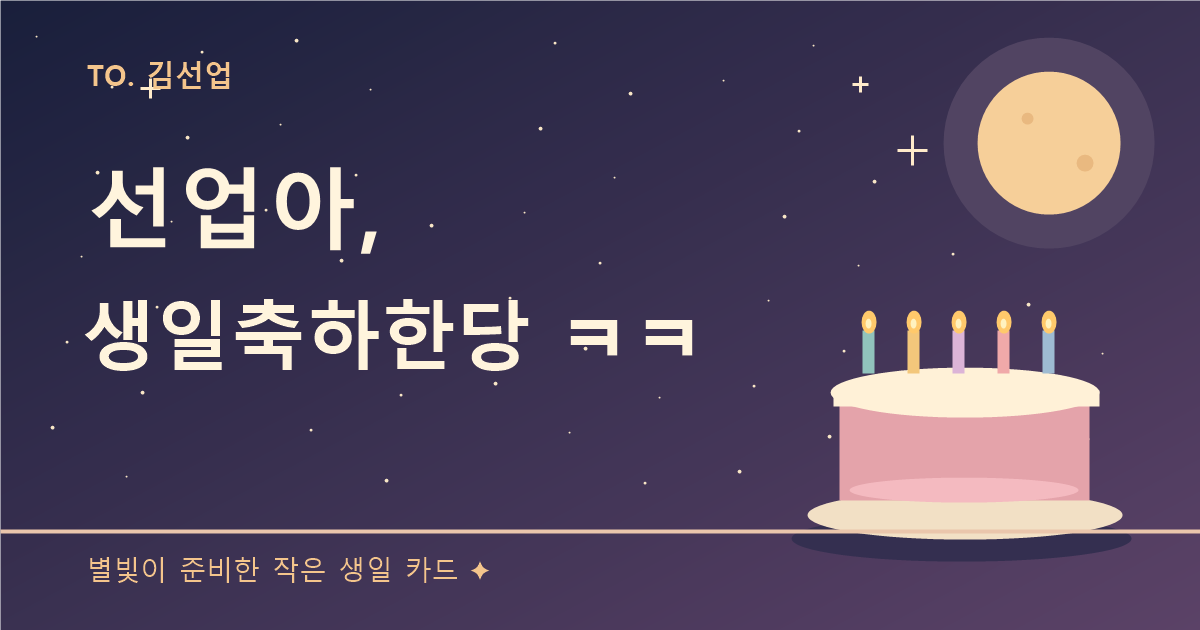
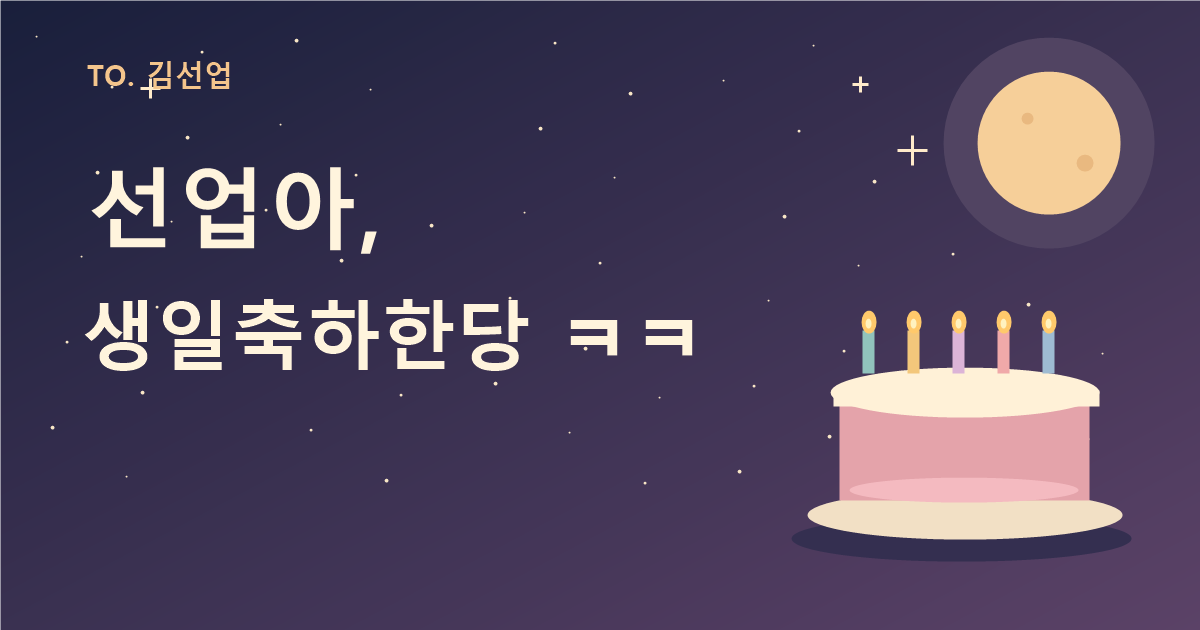
Simplify card and add Pikachu and Jolteon

Changed region(s): [[0.0, 0.8143, 1.0, 0.9349]]

diff --git a/index.html b/index.html
@@ -25,11 +25,8 @@
     * { box-sizing: border-box; }
     body { margin: 0; min-height: 100vh; background: #111429; color: #faf2e4; }
     main { width: min(100% - 24px, 650px); margin: 0 auto; padding: 26px 0 42px; }
-    .header { display: flex; justify-content: space-between; align-items: end; gap: 14px; margin-bottom: 17px; }
-    .eyebrow { color: #eac185; font-size: 12px; font-weight: 700; letter-spacing: .22em; text-transform: uppercase; }
-    h1 { margin: 8px 0 4px; font-size: clamp(26px, 4vw, 38px); letter-spacing: -.055em; }
+    .sr-only { position: absolute; width: 1px; height: 1px; padding: 0; margin: -1px; overflow: hidden; clip: rect(0, 0, 0, 0); white-space: nowrap; border: 0; }
     p { margin: 0; color: #c9c8d7; line-height: 1.6; }
-    .duration { flex: none; font-size: 13px; color: #eac185; border: 1px solid #686077; border-radius: 99px; padding: 8px 13px; }
     .layout { display: block; }
     .stage { overflow: hidden; border-radius: 18px; background: #f4e3ca; box-shadow: 0 24px 80px #0008; aspect-ratio: 3/4; border: 1px solid #e7d0af; }
     canvas { display: block; width: 100%; height: 100%; }
@@ -43,26 +40,22 @@
     .secondary:hover { background: #504d72; }
     .row { display: flex; gap: 10px; }
     .row button { flex: 1; }
-    .status { font-size: 12px; min-height: 22px; margin-top: 12px; }
+    .status { font-size: 12px; margin-top: 12px; }
+    .status:empty { display: none; }
     .progress { margin-top: 18px; height: 5px; border-radius: 99px; background: #514d69; overflow: hidden; }
     .progress span { display: block; height: 100%; width: 0%; background: #f5cc91; transition: width .08s linear; }
-    .footnote { font-size: 12px; margin-top: 13px; }
-    @media (max-width: 560px) { .header { display: block; } .duration { display: inline-block; margin-top: 12px; } .row { flex-wrap: wrap; } .row button { min-width: 45%; } }
+    @media (max-width: 560px) { .row { flex-wrap: wrap; } .row button { min-width: 45%; } }
   </style>
 </head>
 <body>
   <main>
-    <div class="header">
-      <div><div class="eyebrow">A little wish for Seonup</div><h1>김선업님께 보내는 생일 카드</h1><p>열어보면 별빛과 촛불이 차례로 움직입니다.</p></div>
-      <div class="duration">12초 · 무음 · 반복 재생</div>
-    </div>
+    <h1 class="sr-only">김선업에게 보내는 생일 카드</h1>
     <div class="layout">
       <div class="stage"><canvas id="scene" width="900" height="1200" aria-label="김선업님께 전하는 별빛과 케이크 생일 축하 카드 애니메이션" role="img"></canvas></div>
       <section class="panel" aria-label="카드 재생 및 저장">
         <div class="row"><button id="replay" class="primary" type="button">↻ 다시 보기</button><button id="pause" class="secondary" type="button">일시정지</button><button id="download" class="secondary" type="button">영상 저장</button></div>
         <div class="progress" aria-hidden="true"><span id="progress"></span></div>
-        <p id="status" class="status" role="status" aria-live="polite">김선업님을 위한 카드가 재생 중입니다.</p>
-        <p class="footnote">영상 저장은 최신 Chrome·Edge에서 WebM 파일로 지원합니다.</p>
+        <p id="status" class="status" role="status" aria-live="polite"></p>
       </section>
     </div>
   </main>
@@ -92,6 +85,7 @@
     function circle(x, y, r, fill) { ctx.beginPath(); ctx.arc(x, y, Math.max(0, r), 0, TAU); ctx.fillStyle = fill; ctx.fill(); }
     function ellipse(x, y, rx, ry, fill) { ctx.beginPath(); ctx.ellipse(x, y, rx, ry, 0, 0, TAU); ctx.fillStyle = fill; ctx.fill(); }
     function line(x1, y1, x2, y2, color, width = 2) { ctx.beginPath(); ctx.moveTo(x1, y1); ctx.lineTo(x2, y2); ctx.strokeStyle = color; ctx.lineWidth = width; ctx.lineCap = 'round'; ctx.stroke(); }
+    function polygon(points, fill, stroke, width = 2) { ctx.beginPath(); ctx.moveTo(points[0][0], points[0][1]); for (let i = 1; i < points.length; i++) ctx.lineTo(points[i][0], points[i][1]); ctx.closePath(); ctx.fillStyle = fill; ctx.fill(); if (stroke) { ctx.strokeStyle = stroke; ctx.lineWidth = width; ctx.lineJoin = 'round'; ctx.stroke(); } }
     function text(str, x, y, size, color, align = 'center', weight = 700, alpha = 1, maxWidth) {
       ctx.save(); ctx.globalAlpha = alpha; ctx.fillStyle = color; ctx.font = `${weight} ${size}px "Malgun Gothic", "Apple SD Gothic Neo", sans-serif`;
       ctx.textAlign = align; ctx.textBaseline = 'middle';
@@ -99,7 +93,7 @@
       ctx.restore();
     }
     const stars = Array.from({ length: 88 }, (_, i) => ({ x: 30 + hash(i + 1) * 840, y: 24 + hash(i + 101) * 480, r: 1 + hash(i + 204) * 2.1, phase: hash(i + 305) * TAU }));
-    const confetti = Array.from({ length: 105 }, (_, i) => ({ x: hash(i + 401) * W, delay: hash(i + 515) * 2.4, speed: 80 + hash(i + 607) * 110, drift: (hash(i + 711) - .5) * 85, rot: hash(i + 812) * TAU, size: 4 + hash(i + 905) * 7, color: ['#f5c77d', '#f4a4aa', '#87c8c4', '#d8c2e8'][i % 4] }));
+    const confetti = Array.from({ length: 48 }, (_, i) => ({ x: hash(i + 401) * W, delay: hash(i + 515) * 2.4, speed: 80 + hash(i + 607) * 110, drift: (hash(i + 711) - .5) * 85, rot: hash(i + 812) * TAU, size: 4 + hash(i + 905) * 7, color: ['#f5c77d', '#f4a4aa', '#87c8c4', '#d8c2e8'][i % 4] }));
     function grain() {
       const g = document.createElement('canvas'); g.width = g.height = 220;
       const gc = g.getContext('2d'); const img = gc.createImageData(220, 220);
@@ -123,12 +117,10 @@
       circle(x, y, Math.max(1, r * .16), '#fff9df'); ctx.restore();
     }
     function moon(t) {
-      const rise = smooth(.2, 1.7, t); const y = 210 + (1 - rise) * 160;
-      circle(450, y, 105, 'rgba(255,211,150,.07)'); circle(450, y, 73, 'rgba(255,218,166,.13)');
-      circle(450, y, 55, '#f8d39d');
-      circle(432, y - 15, 6, '#e9b87f'); circle(476, y + 18, 9, '#e9b87f'); circle(454, y + 36, 4, '#e9b87f');
-      circle(434, y + 5, 2.5, '#7c6270'); circle(464, y + 5, 2.5, '#7c6270');
-      ctx.beginPath(); ctx.arc(449, y + 13, 7, .1, Math.PI - .1); ctx.strokeStyle = '#7c6270'; ctx.lineWidth = 2.5; ctx.stroke();
+      const rise = smooth(.2, 1.7, t); const y = 178 + (1 - rise) * 120;
+      circle(750, y, 92, 'rgba(255,211,150,.07)'); circle(750, y, 67, 'rgba(255,218,166,.13)');
+      circle(750, y, 49, '#f8d39d');
+      circle(734, y - 14, 5, '#e9b87f'); circle(774, y + 15, 8, '#e9b87f'); circle(750, y + 30, 4, '#e9b87f');
     }
     function comet(t) {
       const p = smooth(.9, 3.5, t); if (p <= 0 || p >= 1) return;
@@ -137,28 +129,51 @@
       for (let i = 9; i >= 0; i--) { const q = clamp(p - i * .012); const tx = -75 + 1050 * q, ty = 460 - 220 * Math.sin(Math.PI * q) - 60 * q; circle(tx, ty, 3 + (9 - i) * .8, `rgba(251,204,150,${.045 + (9 - i) * .014})`); }
       const glow = ctx.createRadialGradient(x, y, 2, x, y, 60); glow.addColorStop(0, 'rgba(255,239,174,.85)'); glow.addColorStop(1, 'rgba(255,239,174,0)'); circle(x, y, 60, glow); sparkle(x, y, 19); ctx.restore();
     }
-    function garland(t) {
-      const alpha = smooth(2.5, 3.4, t); if (!alpha) return;
-      ctx.save(); ctx.globalAlpha = alpha;
-      ctx.beginPath(); ctx.moveTo(0, 82); ctx.bezierCurveTo(270, 168, 630, 168, 900, 82); ctx.strokeStyle = '#e9c6aa'; ctx.lineWidth = 3; ctx.stroke();
-      for (let i = 0; i < 13; i++) { const x = 34 + i * 69; const y = 91 + 42 * Math.sin(Math.PI * x / 900); ctx.fillStyle = ['#ecc88c', '#dca1ad', '#84bdbc', '#b6a6cd'][i % 4]; ctx.beginPath(); ctx.moveTo(x - 23, y); ctx.lineTo(x + 23, y); ctx.lineTo(x, y + 49); ctx.closePath(); ctx.fill(); }
+    function pikachu(t) {
+      const p = smooth(2.2, 3.4, t); if (!p) return;
+      ctx.save(); ctx.globalAlpha = p; ctx.translate(142 - (1 - easeOut(p)) * 245, 667 + Math.sin(t * 4) * 4); ctx.scale(.88, .88);
+      const yellow = '#f8ce48', outline = '#765743';
+      polygon([[47, 18], [106, -31], [76, -31], [120, -93], [84, -72], [104, -117], [34, -55]], yellow, outline, 4);
+      ellipse(0, 31, 74, 83, yellow); ellipse(-43, 99, 30, 14, yellow); ellipse(45, 99, 30, 14, yellow);
+      ctx.save(); ctx.translate(-61, -2); ctx.rotate(-.15 - .24 * Math.sin(t * 5)); ellipse(0, -19, 22, 47, yellow); ctx.restore();
+      ctx.save(); ctx.translate(62, -8); ctx.rotate(.28 + .3 * Math.sin(t * 5)); ellipse(0, -18, 22, 47, yellow); ctx.restore();
+      polygon([[-65, -128], [-81, -259], [-35, -190], [-21, -139]], yellow, outline, 4);
+      polygon([[37, -140], [86, -246], [80, -120], [62, -112]], yellow, outline, 4);
+      polygon([[-79, -251], [-81, -259], [-62, -230], [-66, -214], [-77, -235]], '#3b3342');
+      polygon([[75, -223], [86, -246], [84, -202], [76, -180]], '#3b3342');
+      ellipse(0, -101, 75, 66, yellow);
+      ellipse(-56, -75, 18, 16, '#e76b68'); ellipse(56, -75, 18, 16, '#e76b68');
+      ellipse(-29, -112, 8, 11, '#282936'); ellipse(29, -112, 8, 11, '#282936');
+      circle(-31, -116, 2.5, '#fff8e8'); circle(27, -116, 2.5, '#fff8e8');
+      circle(0, -91, 5, '#3a3038');
+      ctx.beginPath(); ctx.moveTo(-15, -78); ctx.quadraticCurveTo(0, -63, 15, -78); ctx.strokeStyle = '#6a4645'; ctx.lineWidth = 3; ctx.stroke();
       ctx.restore();
     }
-    function gift(x, y, scale, color) {
-      ctx.save(); ctx.translate(x, y); ctx.scale(scale, scale);
-      ctx.fillStyle = '#25243855'; ctx.fillRect(-76, 68, 152, 20);
-      ctx.fillStyle = color; roundedRect(-63, -48, 126, 115, 8); ctx.fill();
-      ctx.fillStyle = '#ffe3ba'; ctx.fillRect(-12, -48, 24, 115); ctx.fillRect(-69, -18, 138, 22);
-      ctx.beginPath(); ctx.ellipse(-17, -57, 24, 14, -.45, 0, TAU); ctx.ellipse(17, -57, 24, 14, .45, 0, TAU); ctx.fill();
-      circle(0, -54, 8, '#ffe3ba'); ctx.restore();
+    function jolteon(t) {
+      const p = smooth(2.3, 3.5, t); if (!p) return;
+      ctx.save(); ctx.globalAlpha = p; ctx.translate(755 + (1 - easeOut(p)) * 245, 671 + Math.sin(t * 4.5 + 1) * 4); ctx.scale(.88, .88);
+      const yellow = '#f6c744', dark = '#514255';
+      polygon([[56, 23], [100, -11], [84, 19], [139, -12], [104, 36], [138, 43], [76, 59]], yellow, dark, 3);
+      polygon([[-58, 80], [-83, 31], [-73, -36], [-105, -53], [-67, -60], [-86, -93], [-38, -85], [0, -92], [48, -73], [83, -27], [76, 68], [55, 91]], yellow, dark, 3);
+      ellipse(-42, 93, 27, 14, yellow); ellipse(52, 92, 27, 14, yellow);
+      polygon([[-58, -147], [-76, -260], [-18, -180], [-20, -129]], yellow, dark, 3);
+      polygon([[27, -139], [79, -249], [70, -125], [45, -115]], yellow, dark, 3);
+      polygon([[-71, -234], [-65, -194], [-34, -167], [-52, -205]], '#484053');
+      polygon([[66, -221], [42, -172], [57, -159], [72, -197]], '#484053');
+      polygon([[-72, -127], [-94, -107], [-73, -89], [-91, -67], [-59, -62], [-50, -43], [-15, -51], [0, -45], [43, -51], [67, -67], [94, -81], [73, -96], [85, -117], [52, -129], [36, -156], [0, -139], [-33, -159]], yellow, dark, 3);
+      polygon([[-62, -46], [-93, -34], [-67, -16], [-92, 5], [-53, 1], [-61, 30], [-21, 12], [0, 44], [21, 12], [62, 27], [56, 1], [92, 5], [63, -17], [91, -36], [59, -49], [30, -39], [0, -55], [-29, -39]], '#fff3dc', '#b9a88f', 3);
+      ellipse(-30, -106, 7, 10, '#2c2938'); ellipse(31, -106, 7, 10, '#2c2938');
+      circle(-32, -110, 2.3, '#fff'); circle(29, -110, 2.3, '#fff');
+      circle(0, -84, 5, '#3c3440');
+      ctx.beginPath(); ctx.moveTo(-10, -72); ctx.quadraticCurveTo(0, -62, 10, -72); ctx.strokeStyle = '#514255'; ctx.lineWidth = 2.5; ctx.stroke();
+      ctx.restore();
     }
-    function balloon(x, baseY, color, t, phase, scale = 1) {
-      const y = baseY - 25 * Math.sin((t - 6) * 1.3 + phase); const sway = 13 * Math.sin(t * .8 + phase);
-      ctx.save(); ctx.globalAlpha = smooth(6.5, 7.5, t); ctx.translate(x + sway, y); ctx.scale(scale, scale);
-      ctx.beginPath(); ctx.moveTo(0, 85); ctx.bezierCurveTo(-10, 130, 8, 165, -2, 205); ctx.strokeStyle = '#d9bac0'; ctx.lineWidth = 2; ctx.stroke();
-      ctx.beginPath(); ctx.ellipse(0, 0, 47, 65, 0, 0, TAU); ctx.fillStyle = color; ctx.fill();
-      ctx.beginPath(); ctx.moveTo(-8, 57); ctx.lineTo(0, 76); ctx.lineTo(8, 57); ctx.fill();
-      ctx.beginPath(); ctx.ellipse(-17, -18, 10, 25, -.35, 0, TAU); ctx.fillStyle = 'rgba(255,255,255,.22)'; ctx.fill(); ctx.restore();
+    function electricWish(t) {
+      const a = smooth(4.25, 4.55, t) * (1 - smooth(5.75, 6.15, t)); if (!a) return;
+      ctx.save(); ctx.globalAlpha = a * (.75 + .25 * Math.sin(t * 25)); ctx.strokeStyle = '#ffe27d'; ctx.lineWidth = 7; ctx.lineJoin = 'round'; ctx.lineCap = 'round'; ctx.shadowColor = '#ffe99a'; ctx.shadowBlur = 24;
+      ctx.beginPath(); ctx.moveTo(210, 550); ctx.lineTo(251, 504); ctx.lineTo(239, 492); ctx.lineTo(313, 431); ctx.stroke();
+      ctx.beginPath(); ctx.moveTo(690, 545); ctx.lineTo(654, 509); ctx.lineTo(666, 495); ctx.lineTo(588, 431); ctx.stroke();
+      sparkle(313, 427, 12, a); sparkle(588, 427, 12, a); ctx.restore();
     }
     function cake(t) {
       const p = smooth(3.25, 4.65, t); if (!p) return;
@@ -191,39 +206,26 @@
     }
     function letters(t) {
       if (t < 6.15) return;
-      const words = '생일 축하해!';
+      const words = '선업아, 생일 축하해!';
       ctx.save(); ctx.shadowColor = '#1f203c88'; ctx.shadowBlur = 12; ctx.shadowOffsetY = 8;
-      ctx.font = '800 82px "Malgun Gothic", "Apple SD Gothic Neo", sans-serif';
+      ctx.font = '800 70px "Malgun Gothic", "Apple SD Gothic Neo", sans-serif';
       const chars = [...words], widths = chars.map(ch => ctx.measureText(ch).width + 3); const total = widths.reduce((a, b) => a + b, 0); let x = (W - total) / 2;
-      chars.forEach((ch, i) => { const p = smooth(6.2 + i * .1, 6.85 + i * .1, t); ctx.save(); ctx.globalAlpha = p; ctx.translate(x + widths[i] / 2, 310 - 38 * (1 - easeOut(p))); ctx.scale(.65 + .35 * easeBack(p), .65 + .35 * easeBack(p)); ctx.textAlign = 'center'; ctx.textBaseline = 'middle'; ctx.fillStyle = '#fff3d9'; ctx.fillText(ch, 0, 0); ctx.restore(); x += widths[i]; });
+      chars.forEach((ch, i) => { const p = smooth(6.2 + i * .08, 6.75 + i * .08, t); ctx.save(); ctx.globalAlpha = p; ctx.translate(x + widths[i] / 2, 292 - 32 * (1 - easeOut(p))); ctx.scale(.65 + .35 * easeBack(p), .65 + .35 * easeBack(p)); ctx.textAlign = 'center'; ctx.textBaseline = 'middle'; ctx.fillStyle = '#fff3d9'; ctx.fillText(ch, 0, 0); ctx.restore(); x += widths[i]; });
       ctx.restore();
-      const message = '선업아, 오늘은 네가 주인공이야.';
-      const p = smooth(7.6, 8.5, t);
-      if (p) { ctx.save(); ctx.globalAlpha = p; ctx.shadowColor = '#241e3b'; ctx.shadowBlur = 12; text(message, 450, 803, 32, '#fff2df', 'center', 650, p, 790); ctx.restore(); }
-      if (t >= 9.2) { const a = smooth(9.2, 10.2, t) * (.8 + .2 * Math.sin(t * 2)); sparkle(168, 328, 12, a); sparkle(725, 268, 10, a); sparkle(735, 420, 6, a); }
-    }
-    function intro(t) {
-      const a = smooth(.25, 1.1, t) * (1 - smooth(3.25, 3.9, t));
-      if (!a) return;
-      text('오늘 밤, 별들이 모인 이유', 450, 600, 38, '#fff2de', 'center', 650, a);
-      line(350, 650, 550, 650, `rgba(246,208,165,${a * .8})`, 2);
+      if (t >= 9.2) { const a = smooth(9.2, 10.2, t) * (.8 + .2 * Math.sin(t * 2)); sparkle(148, 290, 10, a); sparkle(765, 290, 10, a); }
     }
     function draw(t) {
       ctx.clearRect(0, 0, W, 1200);
       ctx.fillStyle = '#f4e3ca'; ctx.fillRect(0, 0, W, 1200);
       ctx.fillStyle = '#e8d0ae'; ctx.fillRect(0, 140, W, 10); ctx.fillRect(0, 1050, W, 10);
       text('TO. 김선업', 450, 75, 51, '#47364e', 'center', 800);
-      sparkle(173, 76, 14, .7); sparkle(727, 76, 14, .7);
+      sparkle(173, 76, 10, .5); sparkle(727, 76, 10, .5);
       ctx.save(); ctx.translate(0, 150);
-      background(t); moon(t); garland(t); comet(t);
-      const giftP = smooth(3.8, 5, t);
-      if (giftP) { ctx.save(); ctx.globalAlpha = giftP; gift(102, 756 + (1 - easeOut(giftP)) * 90, .8, '#86b7b3'); gift(788, 761 + (1 - easeOut(giftP)) * 90, .73, '#e6aaab'); ctx.restore(); }
-      if (t >= 6.5) { balloon(115, 375, '#e9a5aa', t, .2, .8); balloon(765, 460, '#a7c8c3', t, 1.6, .7); }
-      cake(t); confettiDraw(t); intro(t); letters(t);
+      background(t); moon(t); comet(t);
+      pikachu(t); jolteon(t); cake(t); electricWish(t); confettiDraw(t); letters(t);
       ctx.save(); ctx.globalAlpha = .055; ctx.drawImage(noise, 0, 0, W, H); ctx.restore();
       ctx.restore();
-      text('선업아, 생일 축하해! 오늘 제일 많이 웃어 😄', 450, 1100, 28, '#493a50', 'center', 650, 1, 820);
-      text('찬희가', 758, 1154, 23, '#785e69', 'right', 650);
+      text('이찬희 드림', 754, 1128, 30, '#493a50', 'right', 650);
     }
     function tick(now) {
       if (!previous) previous = now;
